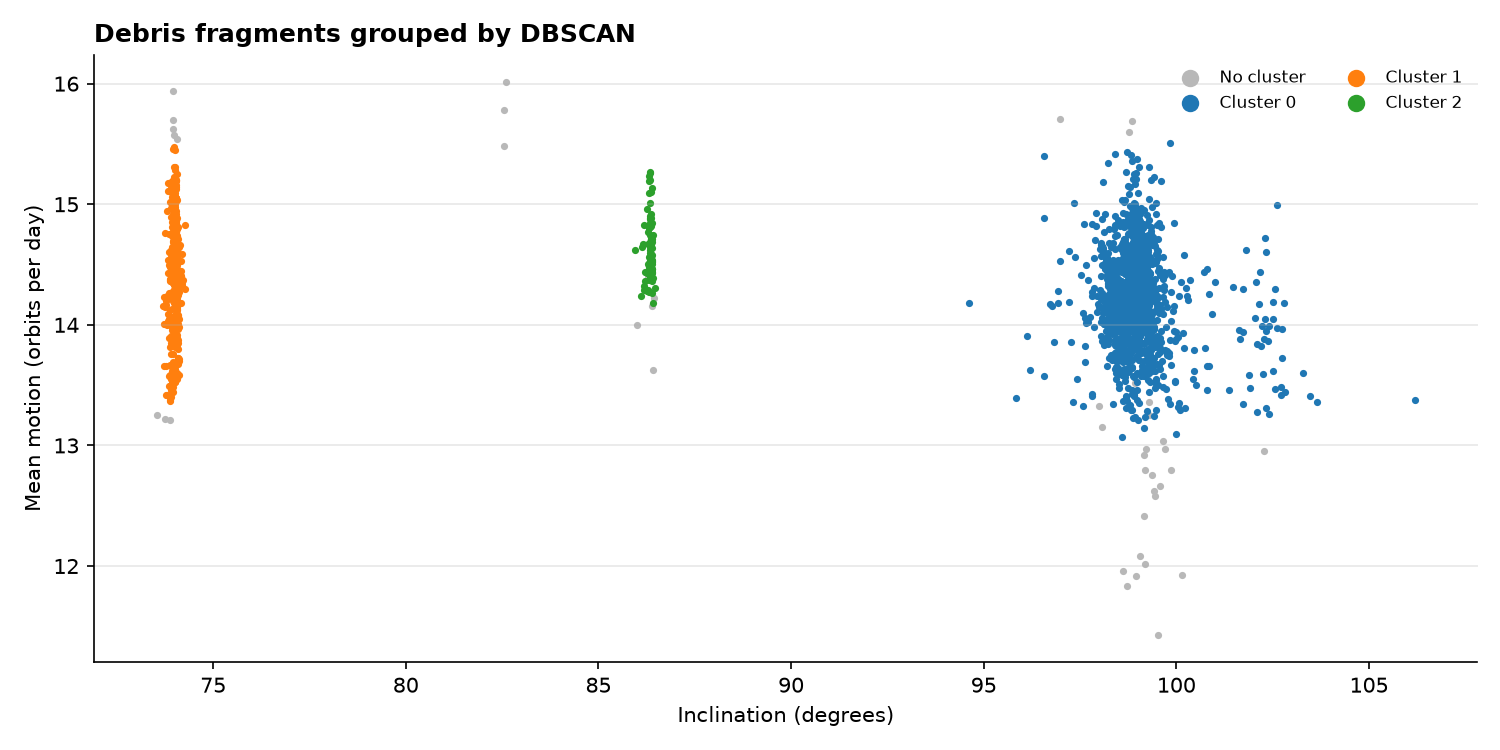
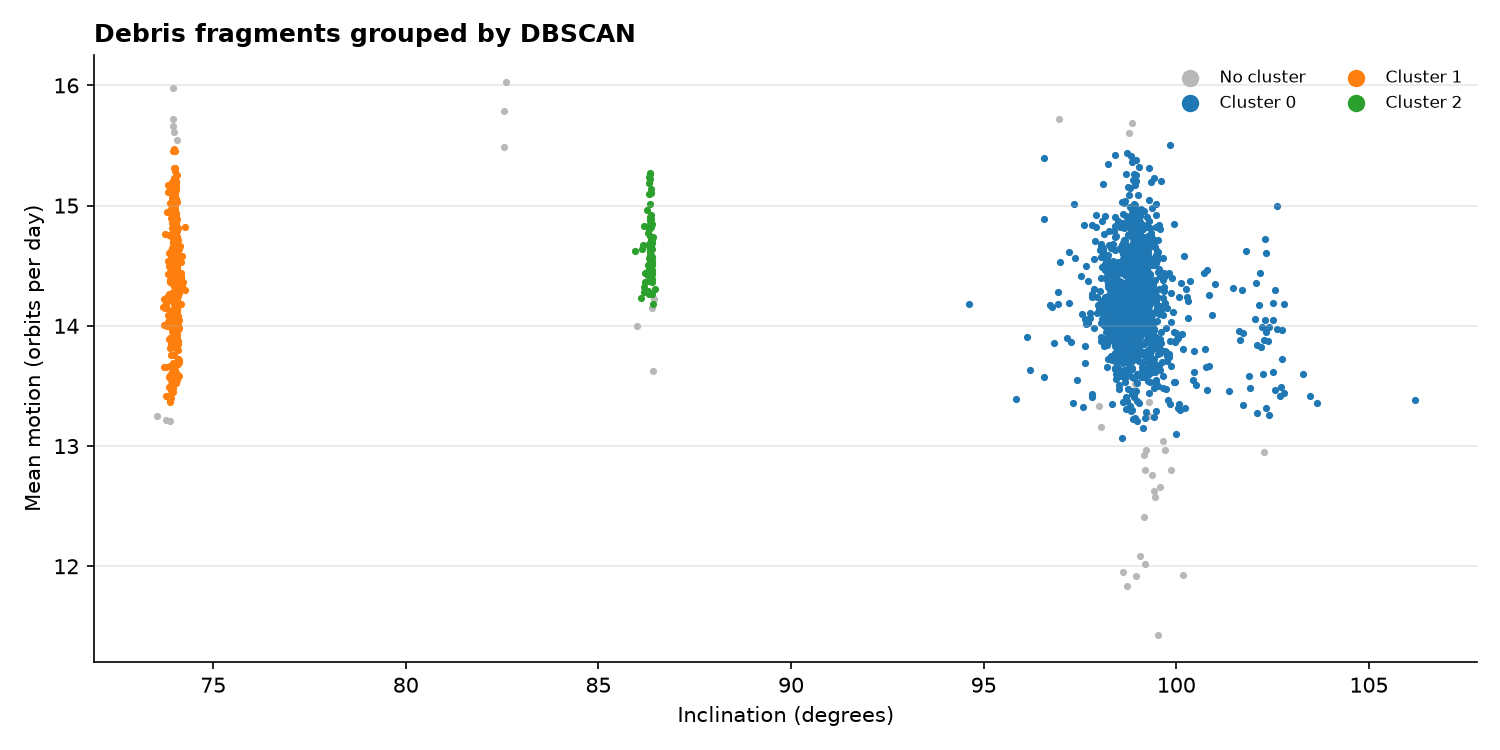
Update results with latest CelesTrak data

diff --git a/README.md b/README.md
@@ -31,17 +31,17 @@ flowchart LR
 ## Results
 
 <!-- RESULTS:START -->
-Latest run: **2026-10-01 09:02 UTC**, using live CelesTrak data. Refreshed automatically every week by GitHub Actions.
+Latest run: **2026-10-05 10:47 UTC**, using live CelesTrak data. Refreshed automatically every week by GitHub Actions.
 
 | Measure | Value |
 |---|---|
-| Objects tracked | 18,645 |
-| Debris fragments | 2,673 |
-| Payloads | 15,967 |
+| Objects tracked | 18,641 |
+| Debris fragments | 2,679 |
+| Payloads | 15,957 |
 | Rocket bodies | 5 |
 | Share in low Earth orbit | 96% |
-| ISS close approaches under 25 km (next 24 h) | 22 |
-| Closest ISS approach | 9.16 km |
+| ISS close approaches under 25 km (next 24 h) | 15 |
+| Closest ISS approach | 3.43 km |
 
 ![Objects per altitude band](results/altitude_density.png)
 
@@ -49,16 +49,16 @@ Latest run: **2026-10-01 09:02 UTC**, using live CelesTrak data. Refreshed autom
 
 | Breakup event | Fragments still tracked | Altitude range (km) | Avg inclination (°) |
 |---|---|---|---|
-| Fengyun-1C (2007 ASAT test) | 1978 | 305 – 3123 | 98.9 |
-| Cosmos 2251 (2009 collision) | 582 | 278 – 1606 | 74.0 |
-| Iridium 33 (2009 collision) | 109 | 476 – 1321 | 86.3 |
-| Cosmos 1408 (2021 ASAT test) | 3 | 267 – 430 | 82.6 |
+| Fengyun-1C (2007 ASAT test) | 1981 | 304 – 3124 | 98.9 |
+| Cosmos 2251 (2009 collision) | 585 | 266 – 1606 | 74.0 |
+| Iridium 33 (2009 collision) | 109 | 476 – 1320 | 86.3 |
+| Cosmos 1408 (2021 ASAT test) | 3 | 263 – 431 | 82.6 |
 
 **DBSCAN breakup clustering** (the model is never told which event a fragment came from)
 
 | Metric | Value |
 |---|---|
-| Fragments clustered | 2,672 |
+| Fragments clustered | 2,678 |
 | Clusters found / true events | 3 / 4 |
 | Adjusted Rand index (1 = perfect) | 0.96 |
 | Homogeneity | 0.98 |
@@ -72,19 +72,19 @@ Latest run: **2026-10-01 09:02 UTC**, using live CelesTrak data. Refreshed autom
 | True event | cluster 0 | cluster 1 | cluster 2 | noise |
 |---|---|---|---|---|
 | Cosmos 1408 (2021 ASAT test) | 0 | 0 | 0 | 3 |
-| Cosmos 2251 (2009 collision) | 0 | 574 | 0 | 8 |
-| Fengyun-1C (2007 ASAT test) | 1948 | 0 | 0 | 30 |
+| Cosmos 2251 (2009 collision) | 0 | 577 | 0 | 8 |
+| Fengyun-1C (2007 ASAT test) | 1951 | 0 | 0 | 30 |
 | Iridium 33 (2009 collision) | 0 | 0 | 104 | 5 |
 
 **Closest approaches to the ISS**
 
 | Closest approach | Object | Type | Miss (km) | Rel. speed (km/s) | Risk |
 |---|---|---|---|---|---|
-| 01 Oct 09:07 UTC | FLOCK 4BE-13 | PAYLOAD | 9.16 | 13.8 | LOW |
-| 01 Oct 16:44 UTC | STARLINK-1183 | PAYLOAD | 10.07 | 11.25 | LOW |
-| 01 Oct 16:52 UTC | FLOCK 4BE-9 | PAYLOAD | 11.94 | 13.72 | LOW |
-| 01 Oct 21:31 UTC | CONNECTA IOT-4 | PAYLOAD | 11.98 | 13.66 | LOW |
-| 01 Oct 20:40 UTC | STARLINK-30806 | PAYLOAD | 13.54 | 7.65 | LOW |
+| 05 Oct 11:22 UTC | POLYTECH UNIVERSE-4 | PAYLOAD | 3.43 | 7.4 | LOW |
+| 06 Oct 05:12 UTC | STARLINK-30806 | PAYLOAD | 4.03 | 7.91 | LOW |
+| 06 Oct 10:37 UTC | STARLINK-30806 | PAYLOAD | 9.79 | 7.93 | LOW |
+| 06 Oct 03:39 UTC | STARLINK-30806 | PAYLOAD | 10.69 | 7.91 | LOW |
+| 05 Oct 12:09 UTC | POLYTECH UNIVERSE-4 | PAYLOAD | 13.47 | 7.41 | LOW |
 
 Full list: [results/iss_close_approaches.csv](results/iss_close_approaches.csv)
 <!-- RESULTS:END -->

diff --git a/results/RESULTS.md b/results/RESULTS.md
@@ -1,16 +1,16 @@
 # Results
 
-Latest run: **2026-10-01 09:02 UTC**, using live CelesTrak data. Refreshed automatically every week by GitHub Actions.
+Latest run: **2026-10-05 10:47 UTC**, using live CelesTrak data. Refreshed automatically every week by GitHub Actions.
 
 | Measure | Value |
 |---|---|
-| Objects tracked | 18,645 |
-| Debris fragments | 2,673 |
-| Payloads | 15,967 |
+| Objects tracked | 18,641 |
+| Debris fragments | 2,679 |
+| Payloads | 15,957 |
 | Rocket bodies | 5 |
 | Share in low Earth orbit | 96% |
-| ISS close approaches under 25 km (next 24 h) | 22 |
-| Closest ISS approach | 9.16 km |
+| ISS close approaches under 25 km (next 24 h) | 15 |
+| Closest ISS approach | 3.43 km |
 
 ![Objects per altitude band](results/altitude_density.png)
 
@@ -18,16 +18,16 @@ Latest run: **2026-10-01 09:02 UTC**, using live CelesTrak data. Refreshed autom
 
 | Breakup event | Fragments still tracked | Altitude range (km) | Avg inclination (°) |
 |---|---|---|---|
-| Fengyun-1C (2007 ASAT test) | 1978 | 305 – 3123 | 98.9 |
-| Cosmos 2251 (2009 collision) | 582 | 278 – 1606 | 74.0 |
-| Iridium 33 (2009 collision) | 109 | 476 – 1321 | 86.3 |
-| Cosmos 1408 (2021 ASAT test) | 3 | 267 – 430 | 82.6 |
+| Fengyun-1C (2007 ASAT test) | 1981 | 304 – 3124 | 98.9 |
+| Cosmos 2251 (2009 collision) | 585 | 266 – 1606 | 74.0 |
+| Iridium 33 (2009 collision) | 109 | 476 – 1320 | 86.3 |
+| Cosmos 1408 (2021 ASAT test) | 3 | 263 – 431 | 82.6 |
 
 **DBSCAN breakup clustering** (the model is never told which event a fragment came from)
 
 | Metric | Value |
 |---|---|
-| Fragments clustered | 2,672 |
+| Fragments clustered | 2,678 |
 | Clusters found / true events | 3 / 4 |
 | Adjusted Rand index (1 = perfect) | 0.96 |
 | Homogeneity | 0.98 |
@@ -41,18 +41,18 @@ Latest run: **2026-10-01 09:02 UTC**, using live CelesTrak data. Refreshed autom
 | True event | cluster 0 | cluster 1 | cluster 2 | noise |
 |---|---|---|---|---|
 | Cosmos 1408 (2021 ASAT test) | 0 | 0 | 0 | 3 |
-| Cosmos 2251 (2009 collision) | 0 | 574 | 0 | 8 |
-| Fengyun-1C (2007 ASAT test) | 1948 | 0 | 0 | 30 |
+| Cosmos 2251 (2009 collision) | 0 | 577 | 0 | 8 |
+| Fengyun-1C (2007 ASAT test) | 1951 | 0 | 0 | 30 |
 | Iridium 33 (2009 collision) | 0 | 0 | 104 | 5 |
 
 **Closest approaches to the ISS**
 
 | Closest approach | Object | Type | Miss (km) | Rel. speed (km/s) | Risk |
 |---|---|---|---|---|---|
-| 01 Oct 09:07 UTC | FLOCK 4BE-13 | PAYLOAD | 9.16 | 13.8 | LOW |
-| 01 Oct 16:44 UTC | STARLINK-1183 | PAYLOAD | 10.07 | 11.25 | LOW |
-| 01 Oct 16:52 UTC | FLOCK 4BE-9 | PAYLOAD | 11.94 | 13.72 | LOW |
-| 01 Oct 21:31 UTC | CONNECTA IOT-4 | PAYLOAD | 11.98 | 13.66 | LOW |
-| 01 Oct 20:40 UTC | STARLINK-30806 | PAYLOAD | 13.54 | 7.65 | LOW |
+| 05 Oct 11:22 UTC | POLYTECH UNIVERSE-4 | PAYLOAD | 3.43 | 7.4 | LOW |
+| 06 Oct 05:12 UTC | STARLINK-30806 | PAYLOAD | 4.03 | 7.91 | LOW |
+| 06 Oct 10:37 UTC | STARLINK-30806 | PAYLOAD | 9.79 | 7.93 | LOW |
+| 06 Oct 03:39 UTC | STARLINK-30806 | PAYLOAD | 10.69 | 7.91 | LOW |
+| 05 Oct 12:09 UTC | POLYTECH UNIVERSE-4 | PAYLOAD | 13.47 | 7.41 | LOW |
 
 Full list: [results/iss_close_approaches.csv](results/iss_close_approaches.csv)
